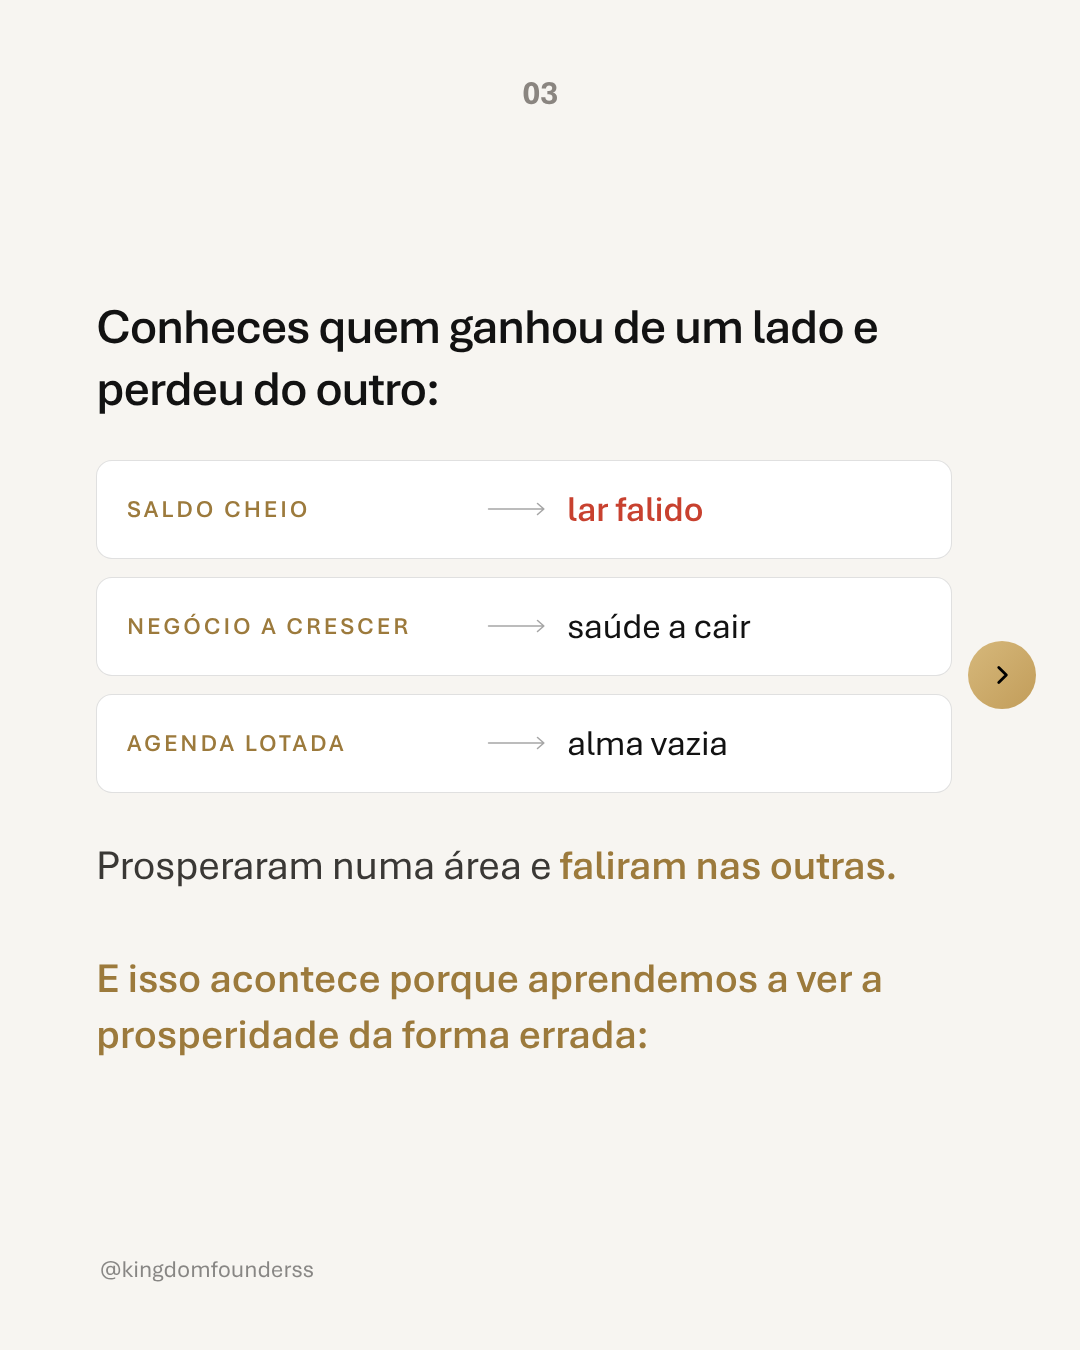
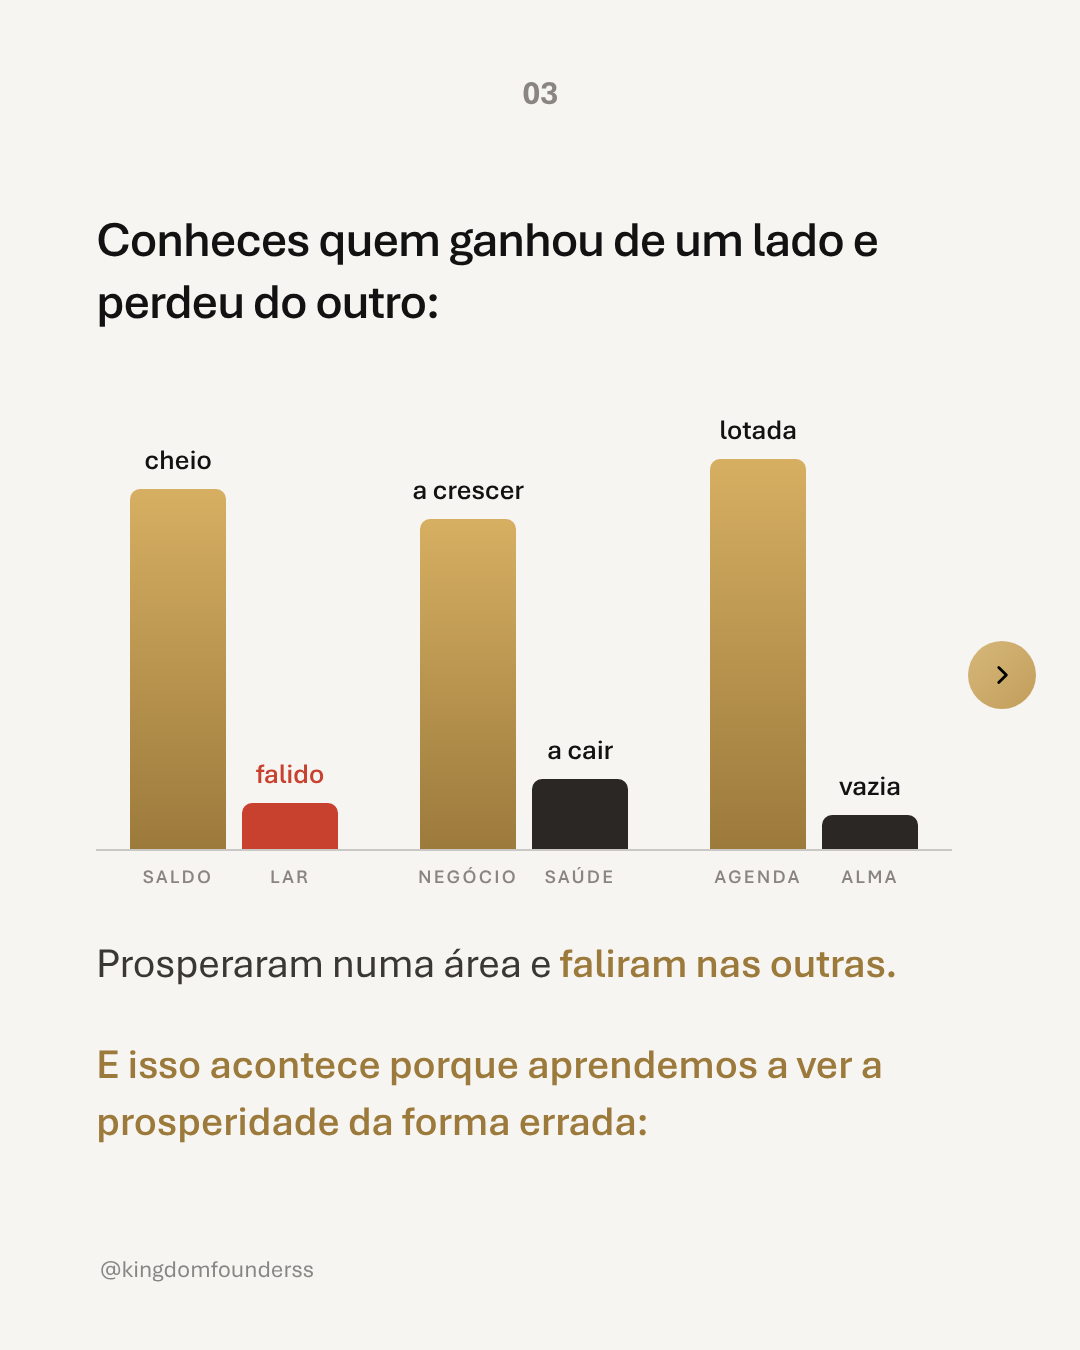
28/10: novas estruturas nos slides 03 (barras em pares) e 08 (cartões por esfera)
Regra da marca: variar os componentes visuais entre carrosséis.

Claude-Session: https://claude.ai/code/session_01RgmbLLVHoJT5B4GNygU6zs

diff --git a/content/founders/semana-02/index.html b/content/founders/semana-02/index.html
@@ -140,6 +140,27 @@ body{ background:#2a2a2a; display:flex; flex-wrap:wrap; gap:40px; padding:40px; 
 .orb .nd{ font-size:24px; font-weight:600; letter-spacing:.1em; fill:#121212; }
 .orb .tu{ font-size:38px; font-weight:900; fill:#000; letter-spacing:.06em; }
 .scenes.wide .scene{ grid-template-columns:340px 60px 1fr; } .scenes.wide .scene span{ font-size:24px; letter-spacing:.12em; }
+/* 28/10 · slide 03: barras em pares (ganhou de um lado, perdeu do outro) */
+.pairs{ margin-top:48px; height:470px; display:flex; justify-content:space-between; align-items:flex-end; padding:0 34px; border-bottom:2px solid rgba(0,0,0,.18); }
+.pair{ display:flex; gap:16px; align-items:flex-end; }
+.bar{ position:relative; width:96px; border-radius:10px 10px 0 0; background:linear-gradient(180deg,#D6AF62,#9C7A3C); }
+.bar.lo{ background:#2A2724; } .bar.lo.red{ background:#C8412F; }
+.bar i{ position:absolute; left:50%; bottom:calc(100% + 12px); transform:translateX(-50%); white-space:nowrap; font-style:normal; font-size:28px; font-weight:600; letter-spacing:-0.01em; color:#121212; }
+.bar.red i{ color:#C8412F; }
+.bar u{ position:absolute; left:50%; top:calc(100% + 16px); transform:translateX(-50%); white-space:nowrap; text-decoration:none; font-size:19px; font-weight:600; letter-spacing:.12em; text-transform:uppercase; color:#8A8580; }
+/* 28/10 · slide 08: uma mudança por esfera */
+.swaps{ display:grid; grid-template-columns:1fr 1fr; gap:20px; }
+.swap{ padding:30px 30px 34px; border-radius:18px; background:#fff; border:1px solid rgba(0,0,0,.1); display:flex; flex-direction:column; }
+.swap.dk{ background:#121212; border-color:#121212; }
+.swap .tg{ display:flex; justify-content:space-between; align-items:baseline; font-size:20px; font-weight:600; letter-spacing:.14em; text-transform:uppercase; color:#9C7A3C; }
+.swap .tg em{ font-style:normal; font-size:52px; font-weight:300; letter-spacing:-0.04em; color:rgba(156,122,60,.55); }
+.swap .old{ margin-top:18px; font-size:26px; line-height:1.3; color:rgba(0,0,0,.42); text-decoration:line-through; text-decoration-color:rgba(0,0,0,.3); }
+.swap .new{ margin-top:auto; padding-top:22px; border-top:1px solid rgba(156,122,60,.35); font-size:36px; line-height:1.18; letter-spacing:-0.02em; font-weight:600; color:#121212; }
+.swap .new b{ color:#9C7A3C; font-weight:600; }
+.swap.dk .old{ color:rgba(255,255,255,.45); text-decoration-color:rgba(255,255,255,.35); }
+.swap.dk .new{ color:#fff; border-color:rgba(214,175,98,.4); } .swap.dk .new b{ color:var(--gold); }
+.swap.dk .tg{ color:var(--gold); } .swap.dk .tg em{ color:rgba(214,175,98,.6); }
+.swap .gap{ height:26px; }
 </style>
 </head>
 <body>
@@ -181,13 +202,13 @@ body{ background:#2a2a2a; display:flex; flex-wrap:wrap; gap:40px; padding:40px; 
 <section class="post w" data-file="2026-10-28-prosperidade-divina/03.png"><div class="num">03</div>
   <div class="content">
     <p class="lead" style="font-size:50px">Conheces quem ganhou de um lado e perdeu do outro:</p>
-    <div class="scenes l wide">
-      <div class="scene"><span>Saldo cheio</span><svg><use href="#arrow-long"/></svg><p class="red">lar falido</p></div>
-      <div class="scene"><span>Negócio a crescer</span><svg><use href="#arrow-long"/></svg><p>saúde a cair</p></div>
-      <div class="scene"><span>Agenda lotada</span><svg><use href="#arrow-long"/></svg><p>alma vazia</p></div>
+    <div class="pairs">
+      <div class="pair"><div class="bar" style="height:360px"><i>cheio</i><u>Saldo</u></div><div class="bar lo red" style="height:46px"><i>falido</i><u>Lar</u></div></div>
+      <div class="pair"><div class="bar" style="height:330px"><i>a crescer</i><u>Negócio</u></div><div class="bar lo" style="height:70px"><i>a cair</i><u>Saúde</u></div></div>
+      <div class="pair"><div class="bar" style="height:390px"><i>lotada</i><u>Agenda</u></div><div class="bar lo" style="height:34px"><i>vazia</i><u>Alma</u></div></div>
     </div>
-    <p class="p" style="margin-top:44px">Prosperaram numa área e <b>faliram nas outras.</b></p>
-    <p class="bridge">E isso acontece porque aprendemos a ver a prosperidade da forma errada:</p>
+    <p class="p" style="margin-top:84px">Prosperaram numa área e <b>faliram nas outras.</b></p>
+    <p class="bridge" style="margin-top:44px">E isso acontece porque aprendemos a ver a prosperidade da forma errada:</p>
   </div>
   <div class="next"><svg><use href="#chev"/></svg></div><div class="handle">@kingdomfounderss</div>
 </section>
@@ -250,14 +271,13 @@ body{ background:#2a2a2a; display:flex; flex-wrap:wrap; gap:40px; padding:40px; 
 <section class="post w" data-file="2026-10-28-prosperidade-divina/08.png">
   <div class="num">08</div>
   <div class="content">
-    <div class="vs l" style="margin-top:0">
-      <div class="vh">Deixas de</div><div></div><div class="vh g">Passas a</div>
-      <div class="vo">Ganhar dinheiro para depois cuidar da alma</div><svg><use href="#chev"/></svg><div class="vn"><b>Cuidar da alma</b> enquanto ganhas</div>
-      <div class="vo">Sacrificar a saúde pelo dinheiro</div><svg><use href="#chev"/></svg><div class="vn"><b>Proteger a saúde</b> como um ativo</div>
-      <div class="vo">Manter relações por interesse</div><svg><use href="#chev"/></svg><div class="vn">Escolher <b>relações que constroem</b></div>
-      <div class="vo">Gastar tudo o que entra</div><svg><use href="#chev"/></svg><div class="vn"><b>Administrar</b> com sabedoria</div>
+    <div class="swaps">
+      <div class="swap dk"><div class="tg">Almática<em>01</em></div><p class="old">Ganhar dinheiro para depois cuidar da alma</p><div class="gap"></div><p class="new"><b>Cuidar da alma</b> enquanto ganhas</p></div>
+      <div class="swap"><div class="tg">Física<em>02</em></div><p class="old">Sacrificar a saúde pelo dinheiro</p><div class="gap"></div><p class="new"><b>Proteger a saúde</b> como um ativo</p></div>
+      <div class="swap"><div class="tg">Relacional<em>03</em></div><p class="old">Manter relações por interesse</p><div class="gap"></div><p class="new">Escolher <b>relações que constroem</b></p></div>
+      <div class="swap"><div class="tg">Material<em>04</em></div><p class="old">Gastar tudo o que entra</p><div class="gap"></div><p class="new"><b>Administrar</b> com sabedoria</p></div>
     </div>
-    <p class="bridge">E há uma pergunta que te mostra por onde começar:</p>
+    <p class="bridge" style="margin-top:48px">E há uma pergunta que te mostra por onde começar:</p>
   </div>
   <div class="next"><svg><use href="#chev"/></svg></div><div class="handle">@kingdomfounderss</div>
 </section>

diff --git a/.claude/skills/kingdom-founders/SKILL.md b/.claude/skills/kingdom-founders/SKILL.md
@@ -64,6 +64,7 @@ Aprovada pelo utilizador a 14/10/2026. É a fonte de verdade para tudo o que se 
 - **Design dos carrosséis (aprovado a 14/10/2026 no 19/10 "Quem sou eu?"; referência de desempenho em `content/brand/founders/referencias-carrossel/eter/`):**
   - **Foto a cada 3 slides:** 01 (capa), 04, 07 e 10. Alternar foto inserida no slide (04, formato 3:2, `.inset`) e foto de fundo com o texto por baixo (07, 10 com gradiente para preto). Fotos com grão de película leve (`.grain`). Sem foto do utilizador: placeholder + prompt no Notion.
   - **Elementos visuais em pelo menos 30% dos slides** (3 de 10), que mostram o que o texto diz: cartões de causa → efeito (`.scenes`), gráfico (`.chart`), etiquetas/rótulos (`.tags`), comparação antes/depois (`.vs`), diagrama, linha do tempo.
+  - **Variar a estrutura dos elementos visuais (pedido do utilizador, 15/10/2026):** não repetir o mesmo componente do carrossel anterior nem dos dois antes. Antes de desenhar, ver que componentes usaram os últimos carrosséis e escolher outros: barras em pares (`.pairs`), cartões em grelha 2×2 por esfera (`.swaps`), diagrama de órbita (`.orb`), hub, linha do tempo, gráfico, etiquetas, comparação, cartões causa → efeito.
   - **No máximo 3 slides com fundo claro** (`.post.w`, #F7F5F1) para quebrar o padrão, de preferência os que têm elementos visuais e nunca seguidos; os outros em preto. Nos claros as cores invertem (texto preto, dourado escuro #9C7A3C) e as fontes são as mesmas.
   - **Fontes sempre as do padrão** (títulos estilo A/B em Aptos com a palavra-chave em Instrument Serif itálico dourado, corpo Aptos, pontes em dourado sem caixa alta). Não copiar as fontes das referências.
   - **Caracteres nos 3 primeiros slides** (o que aumenta o envolvimento na referência): slide 1 até ~130, slide 2 até ~200, slide 3 até ~380 (contar todo o texto visível, menos número, @ e "arraste"). Quando não der, não forçar.
@@ -150,6 +151,7 @@ Tirado dos carrosséis "Decidi acabar com a mentoria Kingdom Founders do jeito q
 
 | Data | Versão | Mudança |
 |---|---|---|
+| 15/10/2026 | 1.23 | Variar a estrutura dos elementos visuais entre carrosséis (não repetir os componentes dos dois anteriores). |
 | 14/10/2026 | 1.22 | Padrão de fundos muda a cada ronda de 12 posts (ronda 1 xadrez, ronda 2 faixa central). |
 | 14/10/2026 | 1.21 | Estáticos em fundo branco alternados com os pretos para equilibrar o feed. |
 | 14/10/2026 | 1.20 | Frases dos estáticos com sabedoria (paradoxo, medida concreta, contraste, exemplo bíblico); nada de lugares-comuns. |
